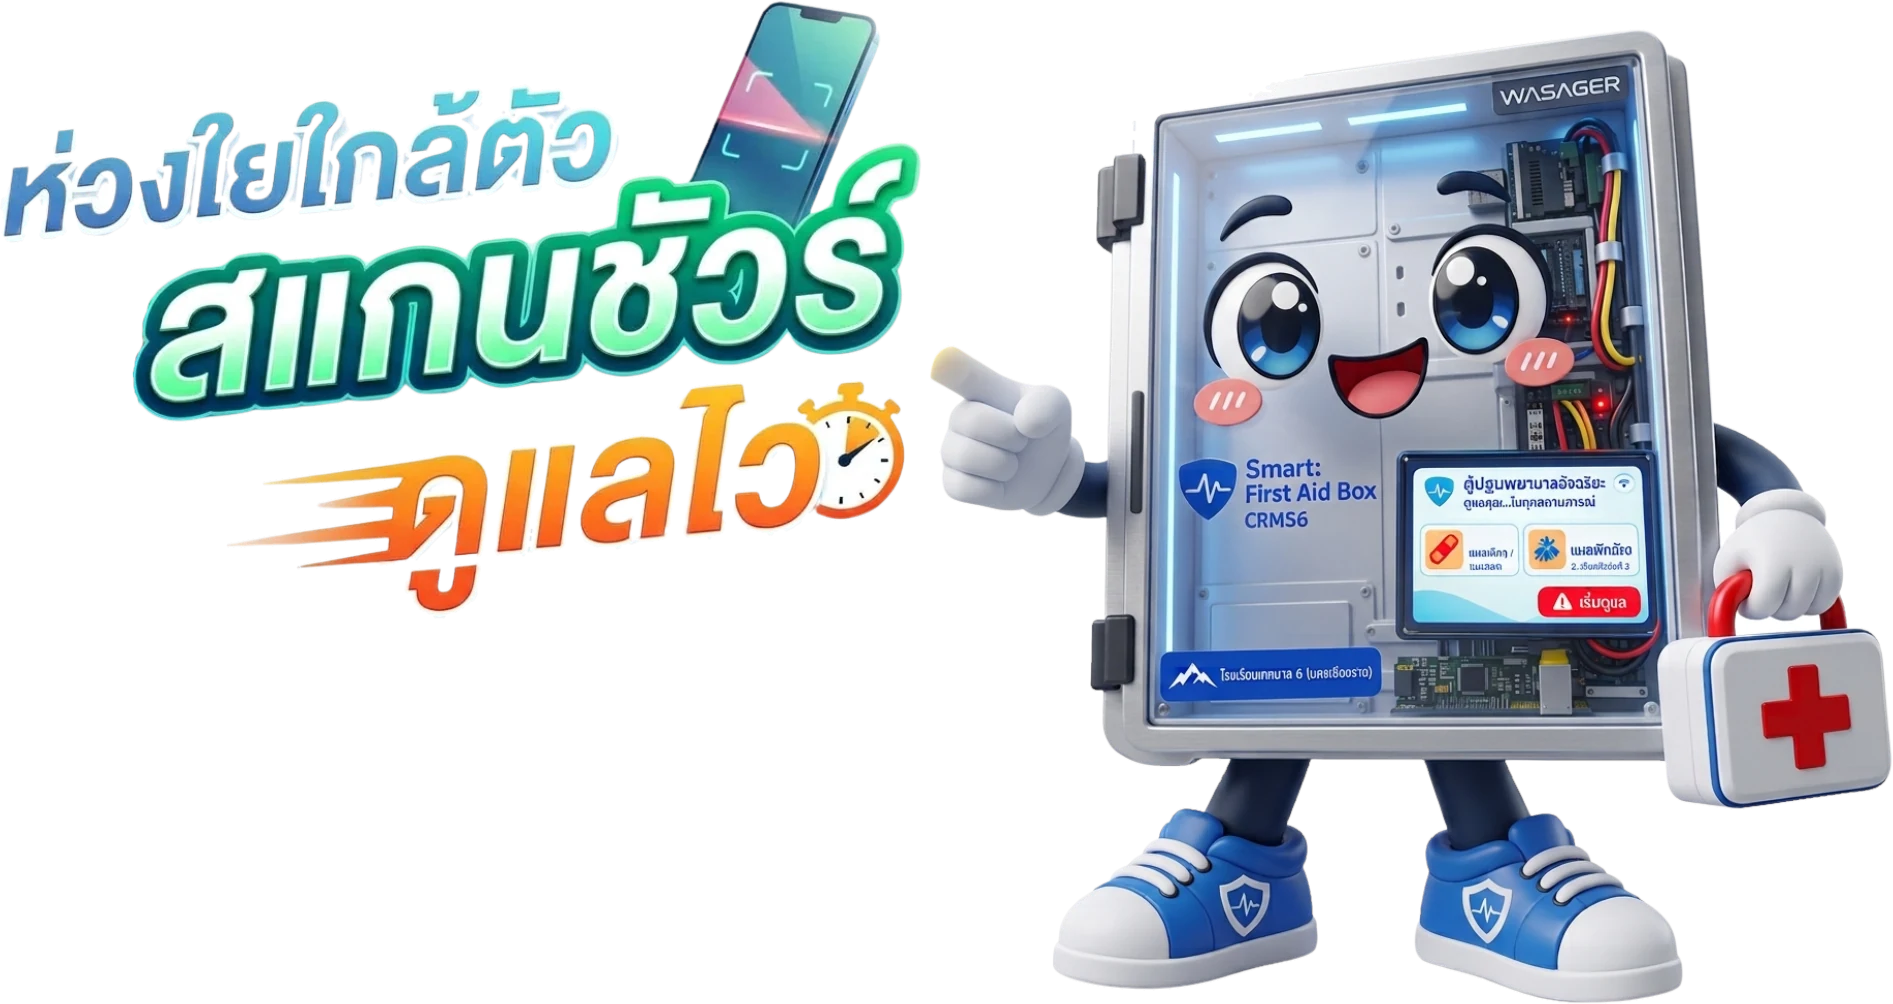
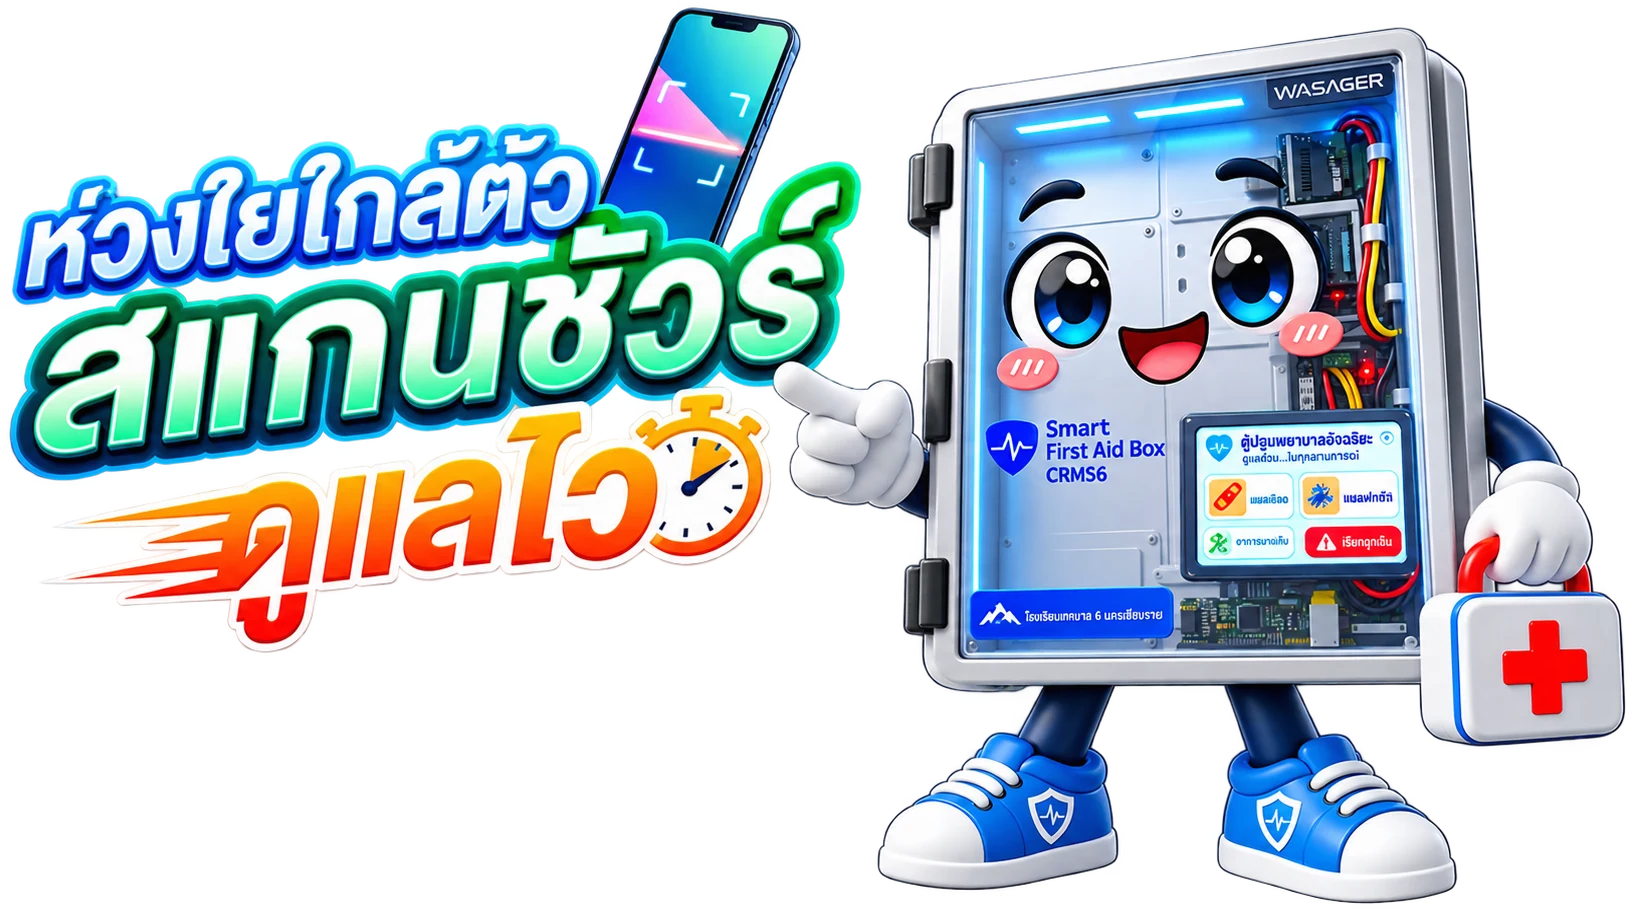
fix(ui): เปลี่ยนภาพฮีโร่หน้าแรกเป็นตัวที่ Bank ตัดพื้นมาให้แล้ว
Bank ส่งภาพใหม่มาที่ตัดพื้นหลังมาเรียบร้อยแล้ว (1672x941 อัลฟาจริง กึ่งโปร่ง 53% ของภาพ)
และบอกว่าขนาด/ตำแหน่งที่ทำไว้เมื่อกี้โอเคแล้ว เปลี่ยนแค่ตัวภาพ

**สคริปต์แยกสองเส้นให้เอง** — ต้นฉบับที่มีอัลฟาอยู่แล้วจะถูกครอปตามขอบจริงแล้วเข้ารหัสเลย
ไม่เดินเส้นคีย์พื้นขาว · เอาขั้นตอนกัดขอบ+เบลอไปทับงานที่เขาไล่ขอบมาเรียบร้อยแล้ว มีแต่จะทำให้เสีย
เกณฑ์ตัดสินคือ "มีช่อง A **และ** มีพิกเซลที่ไม่ทึบจริง" ไม่ใช่แค่ไฟล์ประกาศว่ามีอัลฟา
เพราะ PNG จำนวนมากมีช่อง A ที่เป็น 255 ทั้งใบ ซึ่งเท่ากับไม่มี

**เพดานความกว้างบนเดสก์ท็อป 820px** — ต้นฉบับใหม่กว้าง 1640 px หลังครอป ซึ่งเล็กกว่าตัวก่อน
(1893) ⇒ ถ้าปล่อยกว้างเต็มคอลัมน์ ที่ 1728x1080 จะได้ 841 CSS px = 1682 device px
คือขยาย 1.03x · 820 = 1640/2 พอดี ⇒ จอ Retina ได้ 1:1 ไม่มีการขยายสักขนาดจอ
วัดครบห้าขนาด: 0.49 / 0.71 / 0.73 / 0.84 / 1.00 — ไม่มีตัวไหนเกิน 1

พื้นที่ว่างใต้ภาพยังเป็น 42 px เท่า padding ล่างของฮีโร่ทุกขนาดเหมือนเดิม
npm test เขียว
Agent: Khai
Model: claude-opus-5
Effort: xhigh

diff --git a/css/student-responsive.css b/css/student-responsive.css
@@ -1281,7 +1281,9 @@
        ที่หน้านี้เลิกใช้ไปตอนเปลี่ยนมาเป็นภาพเดียว — กติกาเดิมหายไปพร้อมคลาสเก่า */
     .home-hero-mascot { margin-top: auto; }
 
-    /* กว้างเต็มคอลัมน์ ไม่ต้องตั้งเพดาน px เอง เพราะ padding ของ .home-hero
-       (`max(46px, calc((100% - 860px) / 2))`) คุมความกว้างเนื้อหาไว้ที่ 860px อยู่แล้ว */
-    .home-hero-mascot img { width: 100%; max-height: min(48vh, 470px); margin-inline: 0; }
+    /* เพดาน 820px ไม่ใช่เลขสวย — มันคือความกว้างของต้นฉบับ (1640 px) หารด้วย 2
+       ⇒ จอ Retina ได้ 1:1 พอดี ไม่ถูกขยายสักเครื่อง · ที่ 1728x1080 (MacBook 16")
+       ถ้าปล่อยเต็มคอลัมน์จะได้ 841 CSS px = 1682 device px ซึ่งเกินต้นฉบับไป 3%
+       ได้ภาพนุ่มกว่าที่ควรโดยไม่ได้อะไรกลับมา · ได้ต้นฉบับใหญ่กว่านี้เมื่อไหร่ค่อยขยับเพดาน */
+    .home-hero-mascot img { width: min(100%, 820px); max-height: min(48vh, 470px); margin-inline: 0; }
 }

diff --git a/student/index.html b/student/index.html
@@ -32,7 +32,7 @@
                  ไฟล์สร้างด้วย scripts/build-hero-mascot.mjs — อย่าลากภาพมาทับด้วยมือ
                  เหตุผลของทุกค่าอยู่ในคอมเมนต์หัวสคริปต์นั้น (รอบแรกได้ภาพไม่คมและขอบขาวค้าง) -->
             <figure class="home-hero-mascot">
-                <img src="../images/hero_mascot_tagline.webp" width="1893" height="1004"
+                <img src="../images/hero_mascot_tagline.webp" width="1640" height="910"
                      alt="ตู้ปฐมพยาบาลอัจฉริยะ ห่วงใยใกล้ตัว สแกนชัวร์ ดูแลไว" decoding="async">
             </figure>
         </section>
